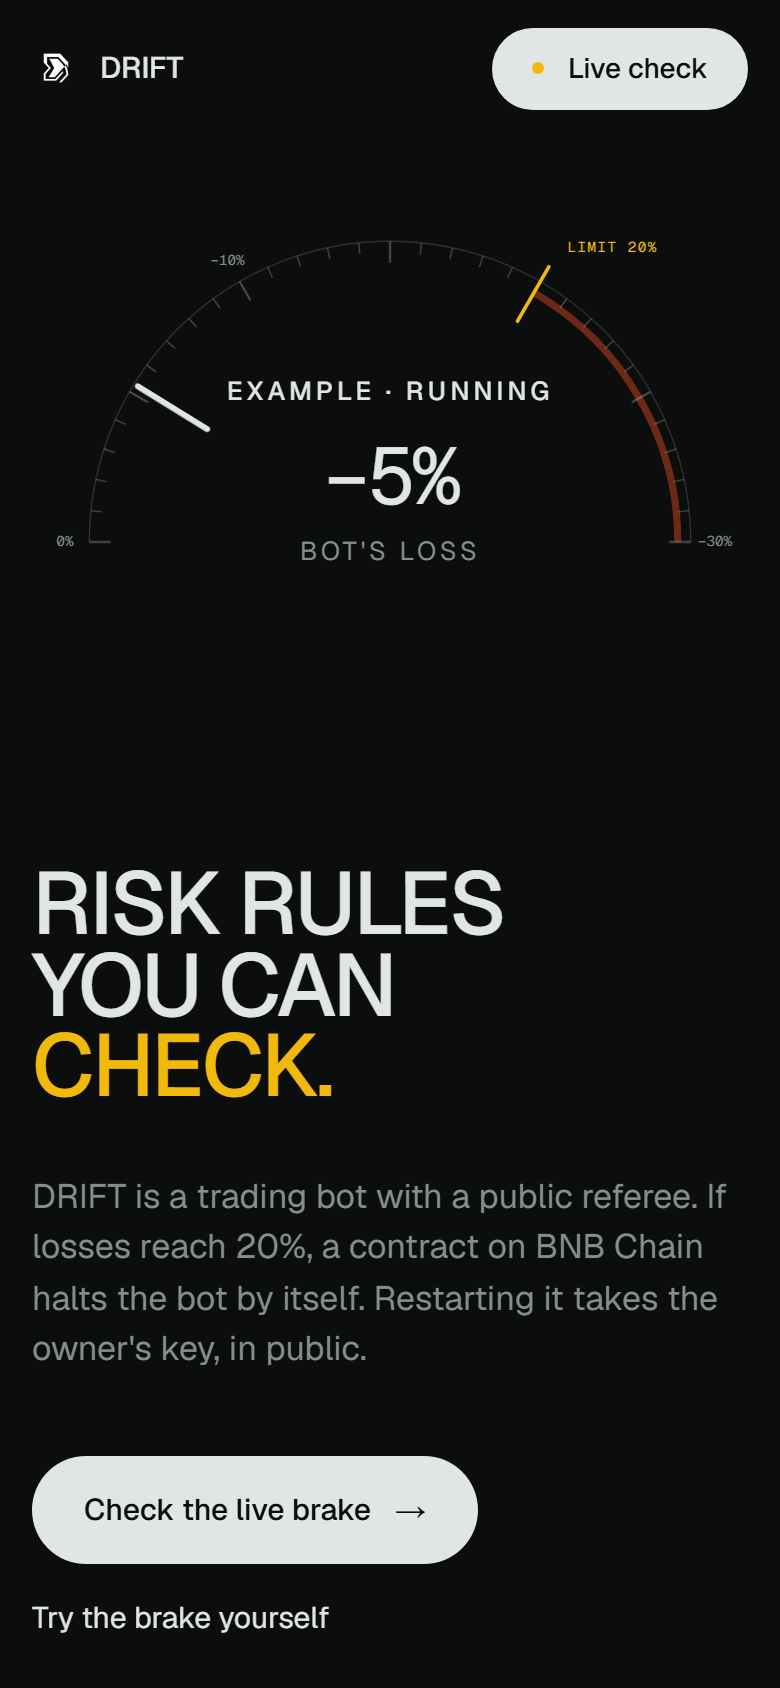
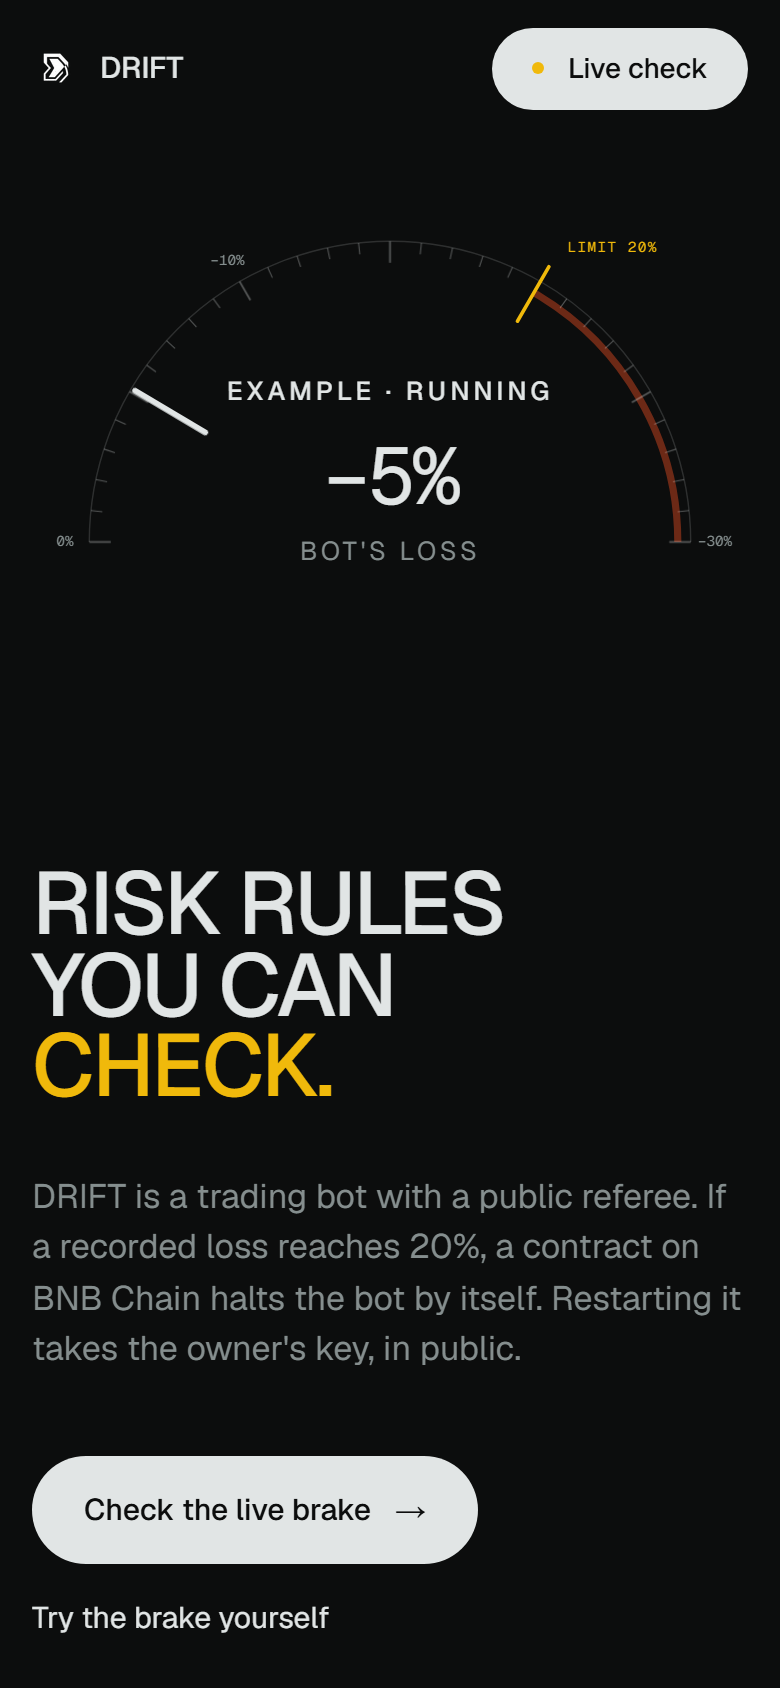
docs: the landing capture with the final hero line

Changed region(s): [[0.0308, 0.7085, 0.9231, 0.8318], [0.1538, 0.2156, 0.2769, 0.2773]]

diff --git a/SHOWCASE.md b/SHOWCASE.md
@@ -38,7 +38,7 @@ With both public RPCs blocked, the panel says so, makes no live claim, and still
 
 ![MacroGuard panel with the live read unavailable: amber notice, not-live badge, verified receipts still listed](docs/screens/after/public-guard-engine-offline-desktop.png)
 
-*Captures: 7 Oct 2026 from the production site (builds `640fa63`, and `cb40293` for the landing, the whole guard page and the view without a live read). Live values come from BSC Testnet at the block shown in each image; the view without a live read was made by blocking both public RPCs in the browser.*
+*Captures: 7 Oct 2026 from the production site (builds `640fa63`; `cb40293` for the whole guard page and the view without a live read; `85ed1c2` for the landing). Live values come from BSC Testnet at the block shown in each image; the view without a live read was made by blocking both public RPCs in the browser.*
 
 ---
 
